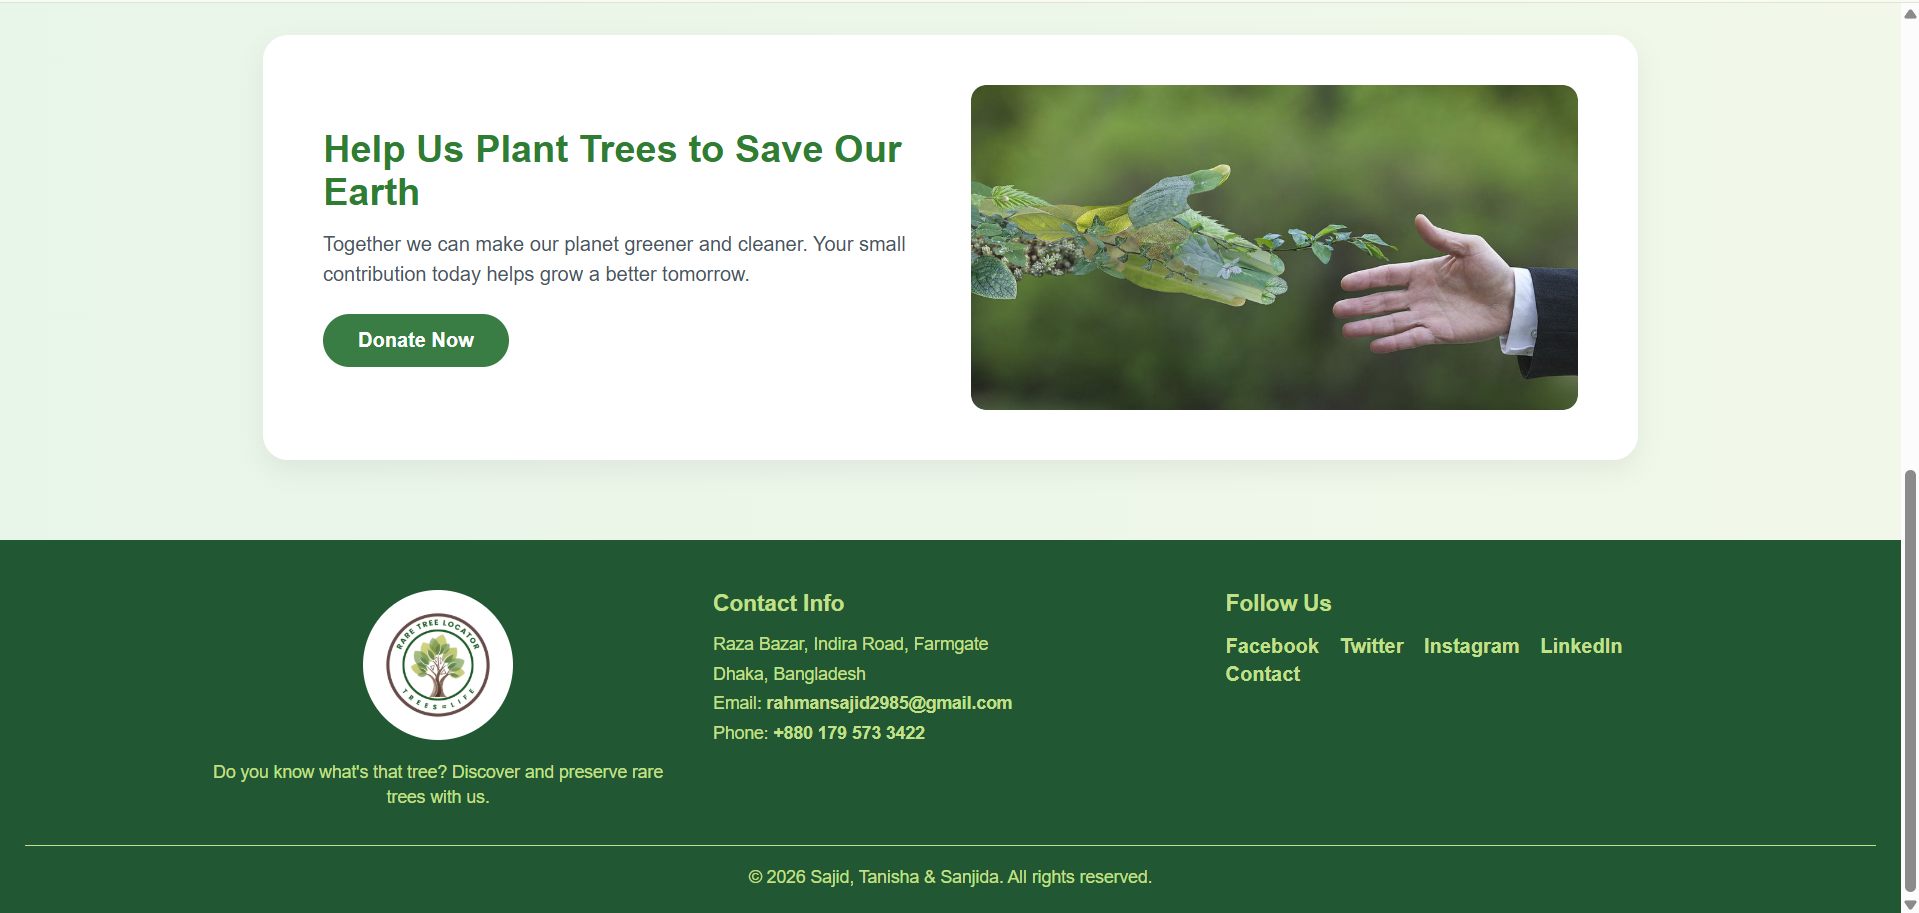
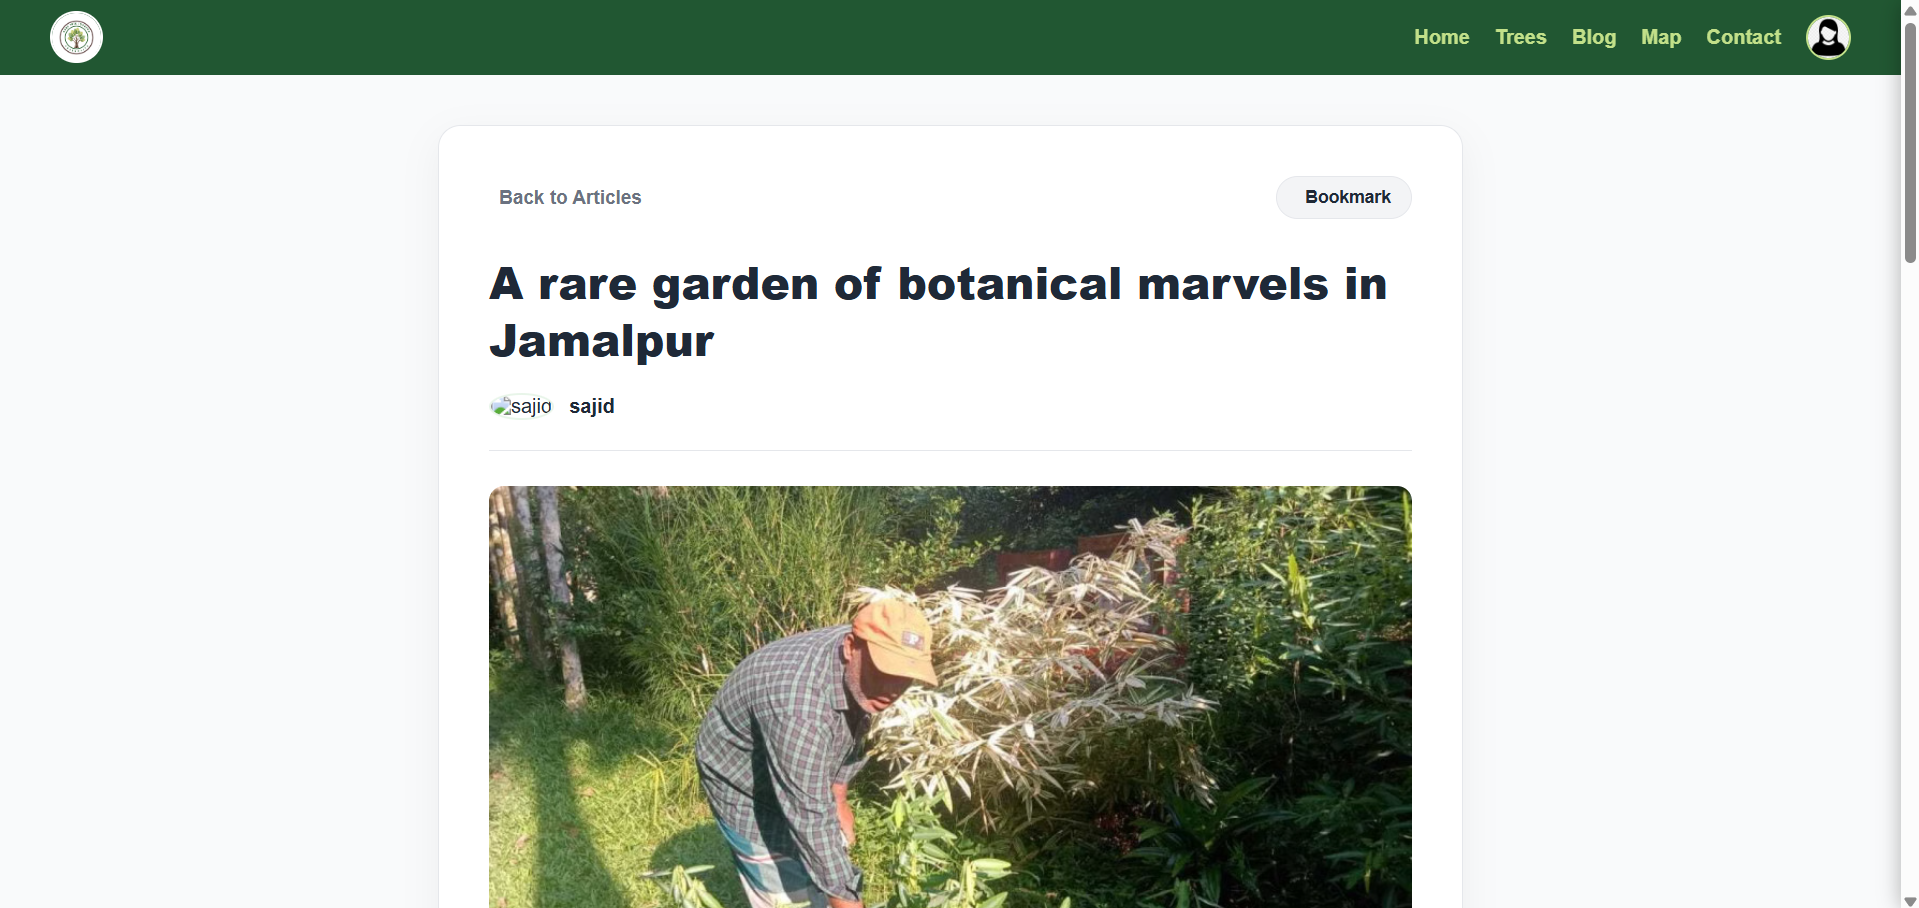
fixed & added many things

diff --git a/index.html b/index.html
@@ -91,6 +91,9 @@
             <div class="slide slide-1"></div>
             <div class="slide slide-2"></div>
             <div class="slide slide-3"></div>
+            <div class="slide slide-4"></div>
+            <div class="slide slide-5"></div>
+            <div class="slide slide-6"></div>
         </div>
         
         <div class="overlay"></div>
@@ -158,8 +161,23 @@
         }
 
         .hero-slider .slide-3 {
-            background-image: url('images/cultural_2.JPG');
+            background-image: url('images/cultural_2.jpg');
             animation-delay: 10s;
+        }
+
+        .hero-slider .slide-4 {
+            background-image: url('images/judge1.jpeg');
+            animation-delay: 15s;
+        }
+
+        .hero-slider .slide-5 {
+            background-image: url('images/futsal.jpg');
+            animation-delay: 20s;
+        }
+
+        .hero-slider .slide-6 {
+            background-image: url('images/uthshob.jpg');
+            animation-delay: 25s;
         }
 
         @keyframes heroSlideFade {
@@ -427,13 +445,13 @@
                                 </a>
                             </div>
                             <div class="col-sm-4" style="margin-bottom: 10px;">
-                                <a href="images/managehoise_2.png" data-lightbox="managehoise" data-title="manageHoise? - Vendor Showcase">
-                                    <img src="images/managehoise_2.png" alt="manageHoise Vendor Showcase" class="img-responsive" style="border-radius: 8px; width: 100%; height: 200px; object-fit: cover; object-position: top; cursor: pointer;">
+                                <a href="images/managehoise_2.png" data-lightbox="managehoise" data-title="manageHoise? - Marketplace Showcase">
+                                    <img src="images/managehoise_2.png" alt="manageHoise Marketplace Showcase" class="img-responsive" style="border-radius: 8px; width: 100%; height: 200px; object-fit: cover; object-position: top; cursor: pointer;">
                                 </a>
                             </div>
                             <div class="col-sm-4" style="margin-bottom: 10px;">
-                                <a href="images/managehoise_3.png" data-lightbox="managehoise" data-title="manageHoise? - Customer Ordering System">
-                                    <img src="images/managehoise_3.png" alt="manageHoise Ordering System" class="img-responsive" style="border-radius: 8px; width: 100%; height: 200px; object-fit: cover; object-position: top; cursor: pointer;">
+                                <a href="images/managehoise_3.png" data-lightbox="managehoise" data-title="manageHoise? - Featured Events">
+                                    <img src="images/managehoise_3.png" alt="manageHoise Featured Events" class="img-responsive" style="border-radius: 8px; width: 100%; height: 200px; object-fit: cover; object-position: top; cursor: pointer;">
                                 </a>
                             </div>
                         </div>
@@ -530,18 +548,18 @@
                         <!-- Image Gallery -->
                         <div class="row" style="margin-bottom: 15px;">
                             <div class="col-sm-4" style="margin-bottom: 10px;">
-                                <a href="images/raretree_1.png" data-lightbox="raretree" data-title="Rare Tree Locator - Interactive Map Interface">
+                                <a href="images/raretree_1.png" data-lightbox="raretree" data-title="Rare Tree Locator - Homepage">
                                     <img src="images/raretree_1.png" alt="Interactive Map" class="img-responsive" style="border-radius: 8px; width: 100%; height: 200px; object-fit: cover; object-position: top; cursor: pointer;">
                                 </a>
                             </div>
                             <div class="col-sm-4" style="margin-bottom: 10px;">
-                                <a href="images/raretree_2.png" data-lightbox="raretree" data-title="Rare Tree Locator - Geotagged Sighting Contribution">
-                                    <img src="images/raretree_2.png" alt="Tree Sighting Contribution" class="img-responsive" style="border-radius: 8px; width: 100%; height: 200px; object-fit: cover; object-position: top; cursor: pointer;">
+                                <a href="images/raretree_2.png" data-lightbox="raretree" data-title="Rare Tree Locator - Blog Contribution">
+                                    <img src="images/raretree_2.png" alt="Blog Contribution" class="img-responsive" style="border-radius: 8px; width: 100%; height: 200px; object-fit: cover; object-position: top; cursor: pointer;">
                                 </a>
                             </div>
                             <div class="col-sm-4" style="margin-bottom: 10px;">
-                                <a href="images/raretree_3.png" data-lightbox="raretree" data-title="Rare Tree Locator - Community Blog & Insights">
-                                    <img src="images/raretree_3.png" alt="Community Blog Section" class="img-responsive" style="border-radius: 8px; width: 100%; height: 200px; object-fit: cover; object-position: top; cursor: pointer;">
+                                <a href="images/raretree_3.png" data-lightbox="raretree" data-title="Rare Tree Locator - Interactive Map Interface">
+                                    <img src="images/raretree_3.png" alt="Interactive Map Interface" class="img-responsive" style="border-radius: 8px; width: 100%; height: 200px; object-fit: cover; object-position: top; cursor: pointer;">
                                 </a>
                             </div>
                         </div>
@@ -577,6 +595,59 @@
                     </div>
                 </div>
 
+                <!-- Project: Arduino-Based Embedded System -->
+                <div class="col-md-12 animate-box" data-animate-effect="fadeInUp" style="margin-bottom: 30px;">
+                    <div style="background: white; padding: 25px; border-radius: 10px; box-shadow: 0 4px 12px rgba(0,0,0,0.08);">
+                        
+                        <!-- Image Gallery (Matches Lightbox Group) -->
+                        <div class="row" style="margin-bottom: 15px;">
+                            <div class="col-sm-4" style="margin-bottom: 10px;">
+                                <a href="images/full_front2.jpg" data-lightbox="arduino-project" data-title="Arduino Project - Hardware & Setup">
+                                    <img src="images/full_front2.jpg" alt="Hardware & Setup" class="img-responsive" style="border-radius: 8px; width: 100%; height: 200px; object-fit: cover; object-position: center; cursor: pointer;">
+                                </a>
+                            </div>
+                            <div class="col-sm-4" style="margin-bottom: 10px;">
+                                <a href="images/judge1.jpeg" data-lightbox="arduino-project" data-title="Arduino Project - Judging & Evaluation">
+                                    <img src="images/judge1.jpeg" alt="Judging & Evaluation" class="img-responsive" style="border-radius: 8px; width: 100%; height: 200px; object-fit: cover; object-position: center; cursor: pointer;">
+                                </a>
+                            </div>
+                            <div class="col-sm-4" style="margin-bottom: 10px;">
+                                <a href="images/showcase.jpeg" data-lightbox="arduino-project" data-title="Arduino Project - Exhibition Stall Setup">
+                                    <img src="images/showcase.jpeg" alt="Exhibition Stall Setup" class="img-responsive" style="border-radius: 8px; width: 100%; height: 200px; object-fit: cover; object-position: center; cursor: pointer;">
+                                </a>
+                            </div>
+                        </div>
+
+                        <div>
+                            <h3 style="font-size: 22px; font-weight: 600; color: #1a1a1a; margin-top: 0; margin-bottom: 8px;">Vision-Guided Gesture-Controlled Robotic
+Vehicle with Object Manipulation</h3>
+                            
+                            <!-- Tech Stack Badges -->
+                            <div style="margin-bottom: 12px;">
+                                <span style="background: #e0f2fe; color: #0284c7; padding: 4px 10px; border-radius: 15px; font-size: 12px; font-weight: 600; margin-right: 5px;">Arduino</span>
+                                <span style="background: #e0f2fe; color: #0284c7; padding: 4px 10px; border-radius: 15px; font-size: 12px; font-weight: 600; margin-right: 5px;">C++</span>
+                                <span style="background: #e0f2fe; color: #0284c7; padding: 4px 10px; border-radius: 15px; font-size: 12px; font-weight: 600; margin-right: 5px;">Microcontrollers</span>
+                                <span style="background: #e0f2fe; color: #0284c7; padding: 4px 10px; border-radius: 15px; font-size: 12px; font-weight: 600; margin-right: 5px;">Sensors & Actuators</span>
+                                <span style="background: #e0f2fe; color: #0284c7; padding: 4px 10px; border-radius: 15px; font-size: 12px; font-weight: 600;">Hardware Design</span>
+                            </div>
+
+                            <p style="color: #555; font-size: 14px; margin-bottom: 15px;">
+                                An interactive hardware and microcontroller project utilizing Arduino to integrate real-time sensor processing and automated control outputs. Built, documented, and presented live at the exhibition stall during event evaluation by judges.
+                            </p>
+
+                            <!-- Action Buttons -->
+                            <div>
+                                <a href="https://drive.google.com/drive/folders/1ohXZSga5BU6j6GHhhPSeXexPBb1drre5?usp=sharing" target="_blank" class="btn btn-primary btn-sm" style="border-radius: 20px; font-size: 13px; margin-right: 8px;">
+                                    <i class="ti-video-clapper"></i> Watch Demo
+                                </a>
+                                <a href="https://drive.google.com/file/d/1htRAjqJHB57aXA7FRuymLBjtNAOaNabk/view?usp=sharing" target="_blank" class="btn btn-default btn-sm" style="border-radius: 20px; font-size: 13px; background: #f3f4f6; color: #333;">
+                                    <i class="ti-file"></i> Read Research Paper
+                                </a>
+                            </div>
+                        </div>
+
+                    </div>
+                </div>
             </div>
         </div>
     </section>
